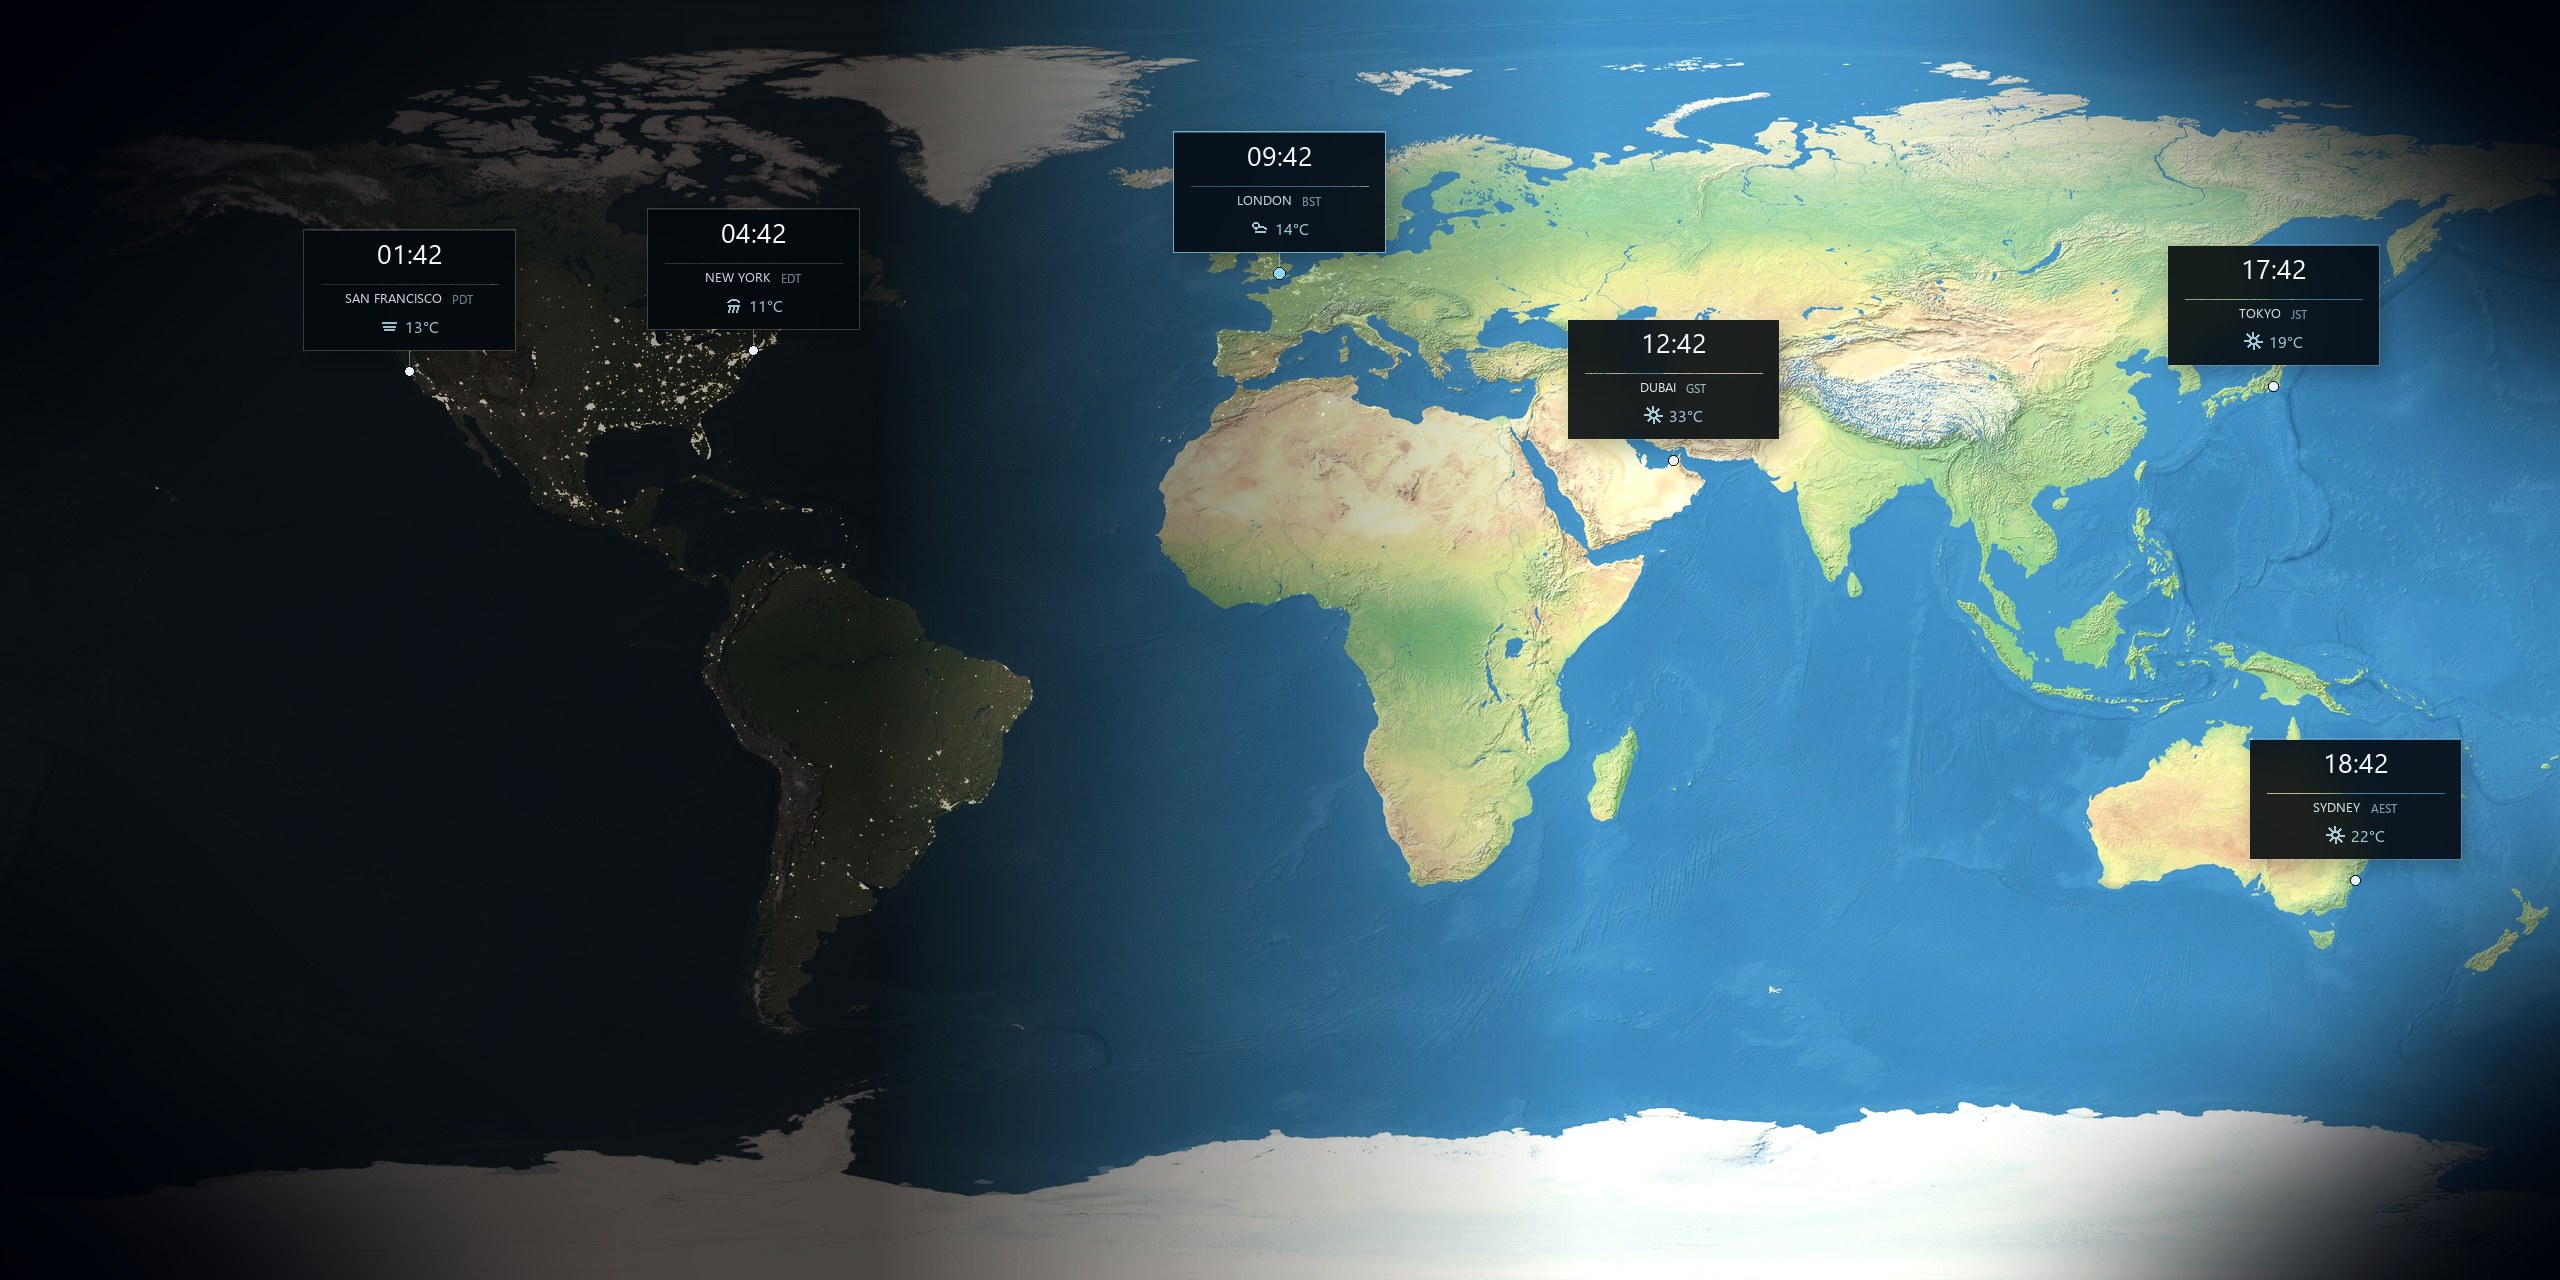
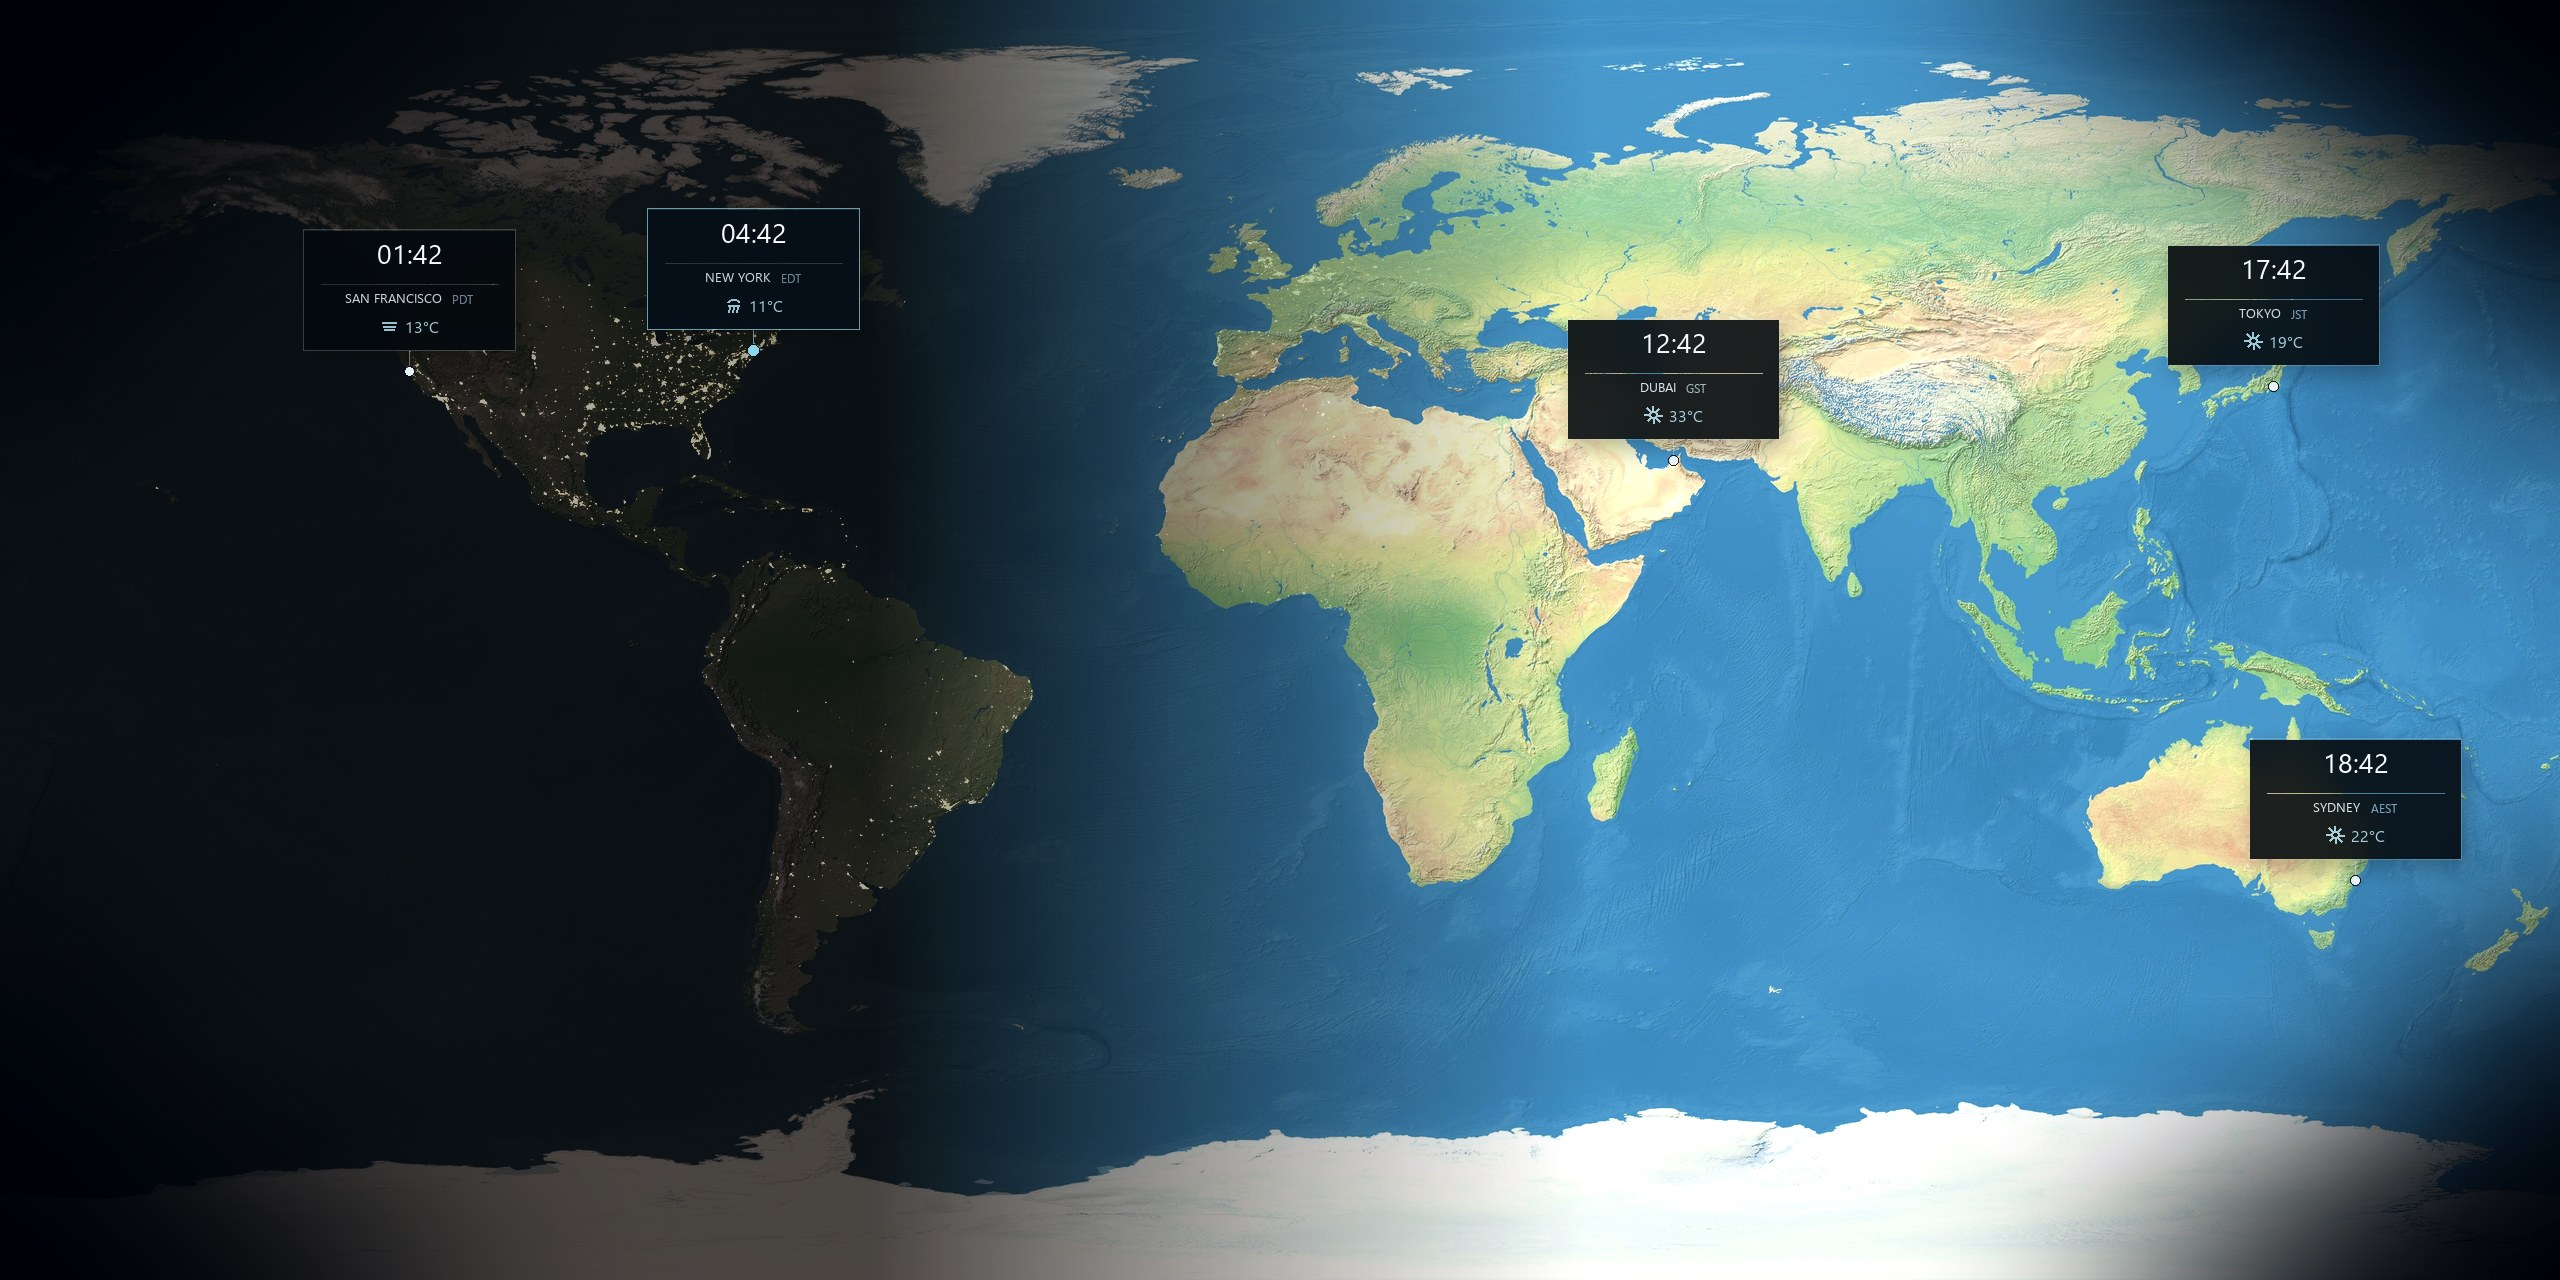
Regenerate hero map without the London card.
Keep the Europe sky clear so the bright day side reads cleaner behind the nav.

Changed region(s): [[0.4375, 0.0938, 0.5625, 0.2188]]

diff --git a/docs/index.html b/docs/index.html
@@ -207,7 +207,7 @@
           <img
             class="hero-map"
             src="assets/hero-map.jpg"
-            alt="Orblune live Earth wallpaper with time and weather cards for London, New York, Tokyo, Dubai, Sydney, and San Francisco"
+            alt="Orblune live Earth wallpaper with time and weather cards for New York, Tokyo, Dubai, Sydney, and San Francisco"
             width="2560"
             height="1280"
             fetchpriority="high"

diff --git a/scripts/gen-hero-map.py b/scripts/gen-hero-map.py
@@ -182,8 +182,7 @@ def paste_card(
 def main() -> None:
     canvas = base.copy()
     cities = [
-        (51.5074, -0.1278, "09:42", "London", "BST", "14\u00b0C", "partly", True),
-        (40.7128, -74.0060, "04:42", "New York", "EDT", "11\u00b0C", "rain", False),
+        (40.7128, -74.0060, "04:42", "New York", "EDT", "11\u00b0C", "rain", True),
         (35.6762, 139.6503, "17:42", "Tokyo", "JST", "19\u00b0C", "clear", False),
         (25.2048, 55.2708, "12:42", "Dubai", "GST", "33\u00b0C", "clear", False),
         (-33.8688, 151.2093, "18:42", "Sydney", "AEST", "22\u00b0C", "clear", False),
